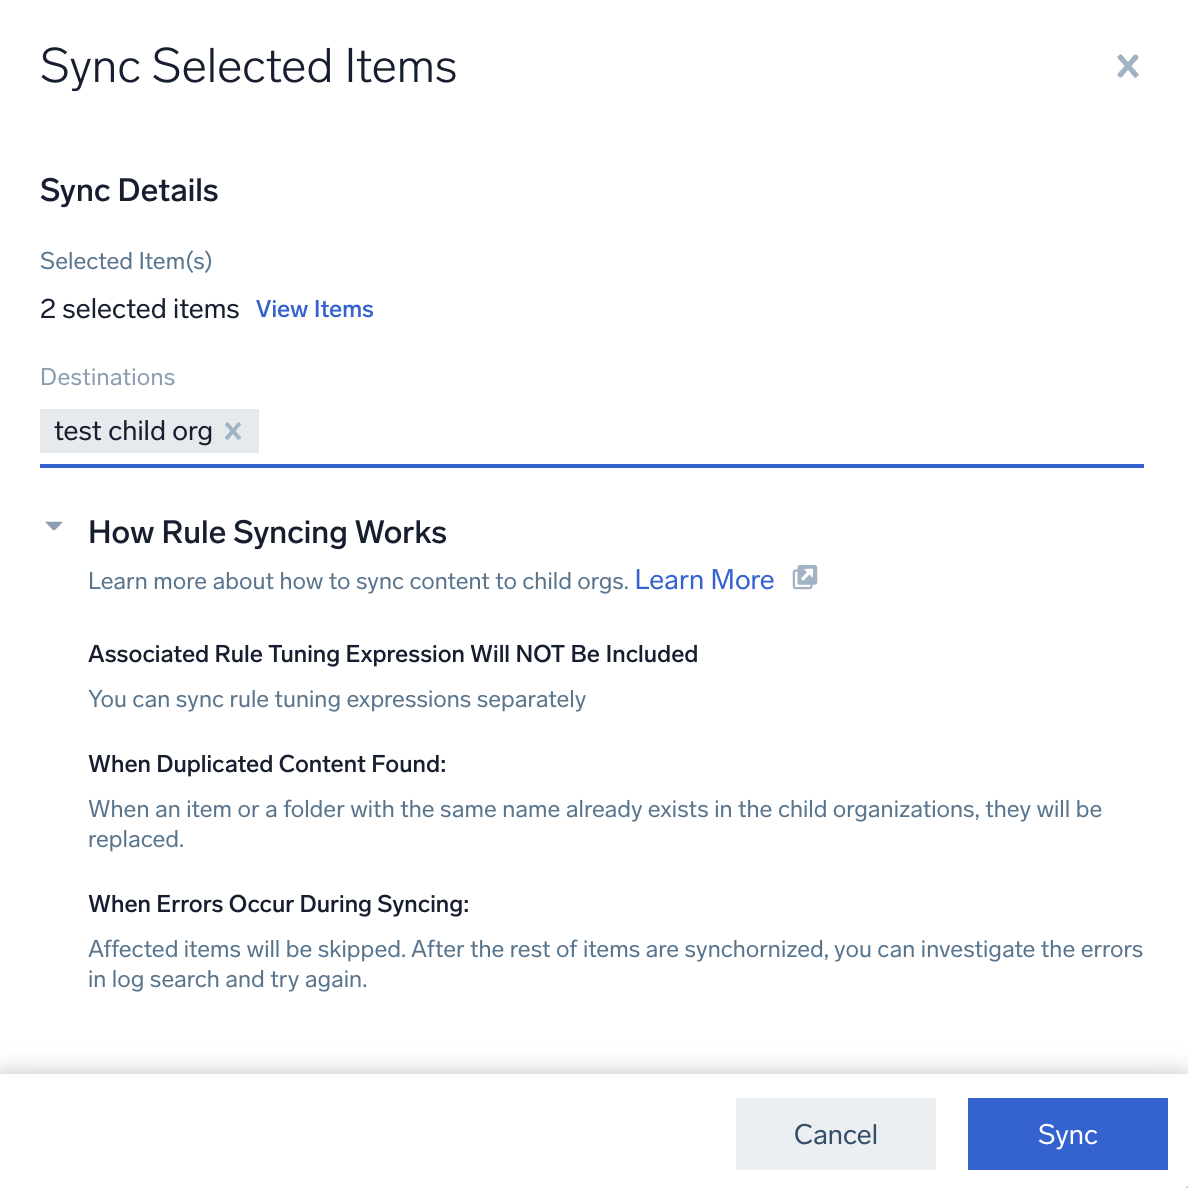
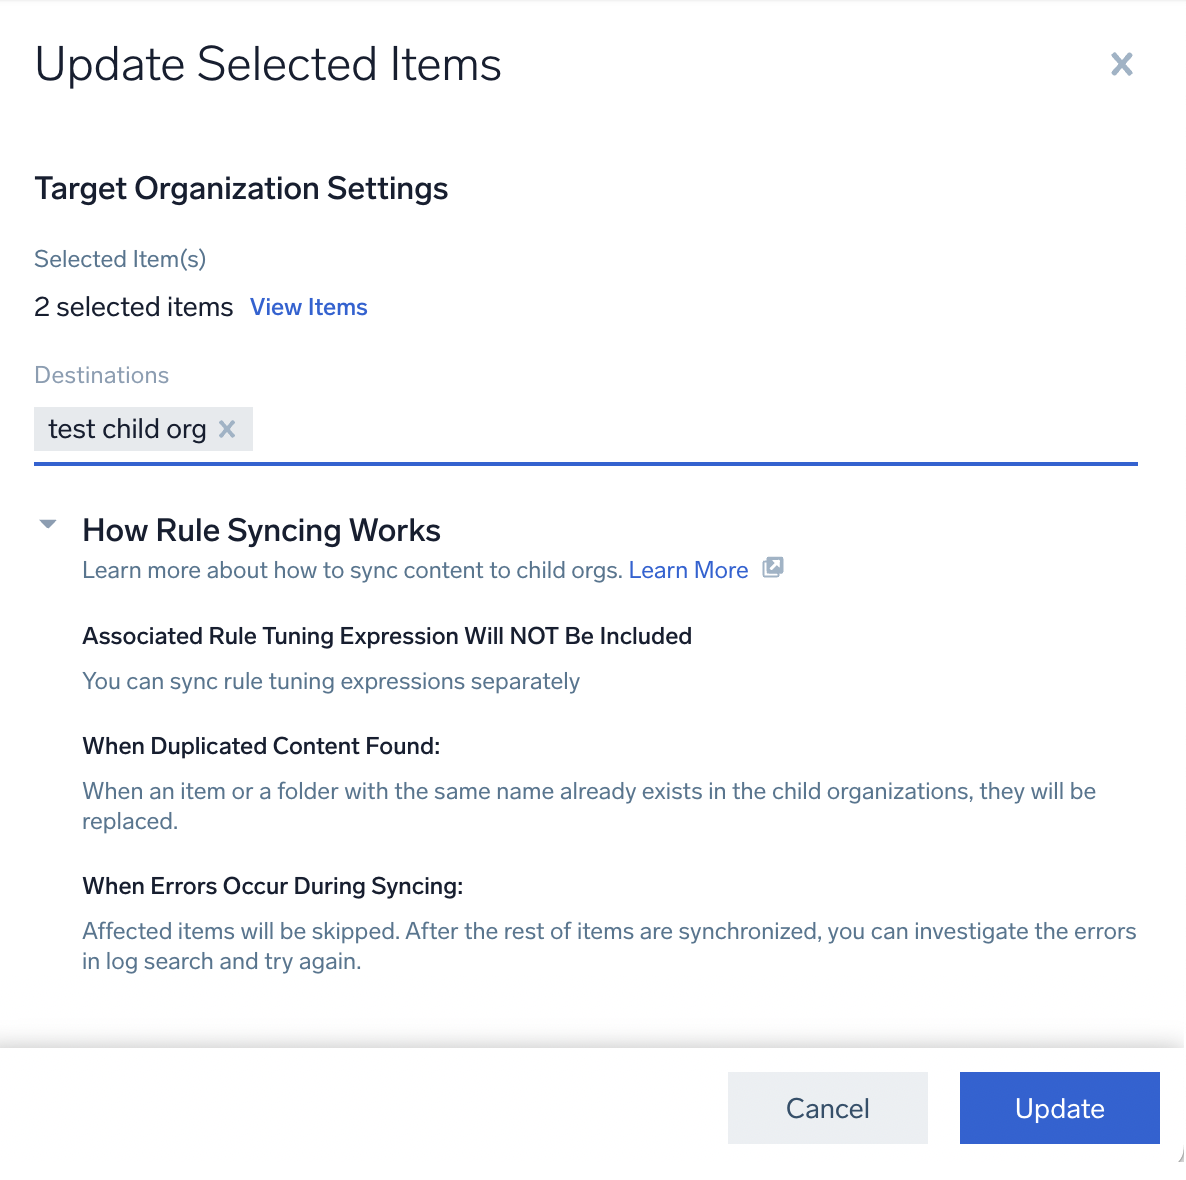
Add 'View History' section

diff --git a/sidebars.ts b/sidebars.ts
@@ -970,7 +970,7 @@ module.exports = {
             'manage/manage-subscription/create-and-manage-orgs/create-manage-orgs-service-providers',
             'manage/manage-subscription/create-and-manage-orgs/create-manage-orgs-flex',
             'manage/manage-subscription/create-and-manage-orgs/manage-org-settings',
-            'manage/manage-subscription/create-and-manage-orgs/manage-orgs-for-mssps',
+            //'manage/manage-subscription/create-and-manage-orgs/manage-orgs-for-mssps',
           ],
         },
         {

diff --git a/docs/manage/manage-subscription/create-and-manage-orgs/manage-orgs-for-mssps.md b/docs/manage/manage-subscription/create-and-manage-orgs/manage-orgs-for-mssps.md
@@ -5,6 +5,12 @@ sidebar_label: Manage Orgs for MSSPs
 description: Learn how to manage organizations for Managed Security Service Providers (MSSPs).
 ---
 
+<head>
+ <meta name="robots" content="noindex" />
+</head>
+
+<p><a href="/docs/beta"><span className="beta">Beta</span></a></p>
+
 import useBaseUrl from '@docusaurus/useBaseUrl';
 
 This article describes how to manage organizations for Managed Security Service Providers (MSSPs). MSSP administrators must ensure that the content of their child organizations is properly configured. MSSPs often consist of a parent organization with child organizations that use [Cloud SIEM](/docs/cse/).
@@ -20,26 +26,32 @@ You must have the following [organization role capabilities](/docs/manage/users-
    * Create Organizations
    * Manage Organizations
 
-## Sync content in child organizations
+## Update content in child organizations
 
 To ensure that content is consistent across child organizations, use the **Content Management** tab. 
 
-You can sync the following:
+You can update the following:
 * Cloud SIEM [rules](/docs/cse/rules/)
 * Cloud SIEM [rule tuning expressions](/docs/cse/rules/rule-tuning-expressions/)
 
 1. [**Classic UI**](/docs/get-started/sumo-logic-ui-classic). In the main Sumo Logic menu, select **Administration > Organizations**.<br/>[**New UI**](/docs/get-started/sumo-logic-ui). In the main Sumo Logic menu, select **Organizations**. You can also click the **Go To...** menu at the top of the screen and select **Organizations**.
 1. Select the **Content Management** tab.
-1. In the **Source** field, select the organization that will provide the source data to be synced to other organizations.
-1. In the **Content** bar, select the content to be synced:
+1. In the **Source** field, select the organization that will provide the source data to be updated in other organizations.
+1. In the **Content** bar, select the content to be updated:
    * **Cloud SIEM Rules**
    * **Rule Tuning Expressions**
-1. Select individual items to be synced, or all items.
-1. Click **Sync Selected Items**.<br/><img src={useBaseUrl('img/manage/subscriptions/mssp-orgs-sync-selected-items.png')} alt="Sync Selected Items button" style={{border: '1px solid gray'}} width="800"/>
-1. On the **Sync Selected Items** box, click **Destinations** to select the organizations to sync the selected items to. You can sync to all organizations, a single child organization, or multiple child organizations.<br/><img src={useBaseUrl('img/manage/subscriptions/mssp-orgs-sync-selected-items-2.png')} alt="Sync Selected Items dialog" style={{border: '1px solid gray'}} width="400"/><br/>Tips: 
-   * If you select **All Child Organizations**, you can then select organizations to exclude, allowing you to sync to all organizations except those you select:<br/><img src={useBaseUrl('img/manage/subscriptions/mssp-orgs-selected-organizations.png')} alt="Selected organizations" style={{border: '1px solid gray'}} width="150"/>
-   * When you sync rule tuning expressions, select **Include Associated Cloud SIEM Rules** to also sync all the Cloud SIEM rules that the expressions are used on:<br/><img src={useBaseUrl('img/manage/subscriptions/mssp-orgs-sync-associated-rules.png')} alt="Include Associated Cloud SIEM Rules checkbox" style={{border: '1px solid gray'}} width="200"/>
-1. Click **Sync**. A **Syncing in progress** dialog is displayed. 
+1. Select individual items to be updated, or all items.
+1. Click **Update Selected Items**.<br/><img src={useBaseUrl('img/manage/subscriptions/mssp-orgs-sync-selected-items.png')} alt="Update Selected Items button" style={{border: '1px solid gray'}} width="800"/>
+1. On the **Update Selected Items** box, click **Destinations** to select the organizations to update the selected items to. You can update to all organizations, a single child organization, or multiple child organizations.<br/><img src={useBaseUrl('img/manage/subscriptions/mssp-orgs-sync-selected-items-2.png')} alt="Update Selected Items dialog" style={{border: '1px solid gray'}} width="400"/><br/>Tips: 
+   * If you select **All Child Organizations**, you can then select organizations to exclude, allowing you to update to all organizations except those you select:<br/><img src={useBaseUrl('img/manage/subscriptions/mssp-orgs-selected-organizations.png')} alt="Selected organizations" style={{border: '1px solid gray'}} width="300"/>
+   * When you update rule tuning expressions, select **Include Associated Cloud SIEM Rules** to also update all the Cloud SIEM rules that the expressions are used on:<br/><img src={useBaseUrl('img/manage/subscriptions/mssp-orgs-sync-associated-rules.png')} alt="Include Associated Cloud SIEM Rules checkbox" style={{border: '1px solid gray'}} width="200"/>
+1. Click **Update**. An **Updating in progress** dialog is displayed. 
+
+### View history
+
+1. Click **View History** in the upper-right corner of the page. <br/>A query for update history displays:<br/><img src={useBaseUrl('img/manage/subscriptions/mssp-view-history-query.png')} alt="View history query" style={{border: '1px solid gray'}} width="800"/>
+1. Click the search button. <img src={useBaseUrl('img/manage/subscriptions/search-button.png')} alt="Search button" width="75"/> <br/>The update history displays. The email of the individual who performed the update appears in the **user_email** column, and the updated items appear in the **content** column. <br/><img src={useBaseUrl('img/manage/subscriptions/mssp-view-history-query-results.png')} alt="View history query results" style={{border: '1px solid gray'}} width="800"/>
+1. Investigate any updates that failed and re-run the update if needed. 
 
 ### FAQs
 
@@ -54,7 +66,7 @@ You can sync the following:
 * **What happens if a tuning expression with the same name already exists?**<br/>It will be replaced in the child organization.
 * **What if errors occur during updating?**<br/>Affected items will be skipped. Once the rest of the content is updated, you can review errors in log search and retry.
 * **What happens if the source tuning expression contains Cloud SIEM rules?**<br/>If the **Include Linked Cloud SIEM Rules** option is selected, existing rules with the same name in the destination organization will be linked to match the source tuning expression.
-* **What if no matching Cloud SIEM rules are found in the destination organization?**<br/>The update will complete with a warning, and missing rules will be logged in the audit log. You can sync those rules separately and re-run the tuning expression update.
+* **What if no matching Cloud SIEM rules are found in the destination organization?**<br/>The update will complete with a warning, and missing rules will be logged in the audit log. You can update those rules separately and re-run the tuning expression update.
    
 
 ## Multi-insights list page in Cloud SIEM
